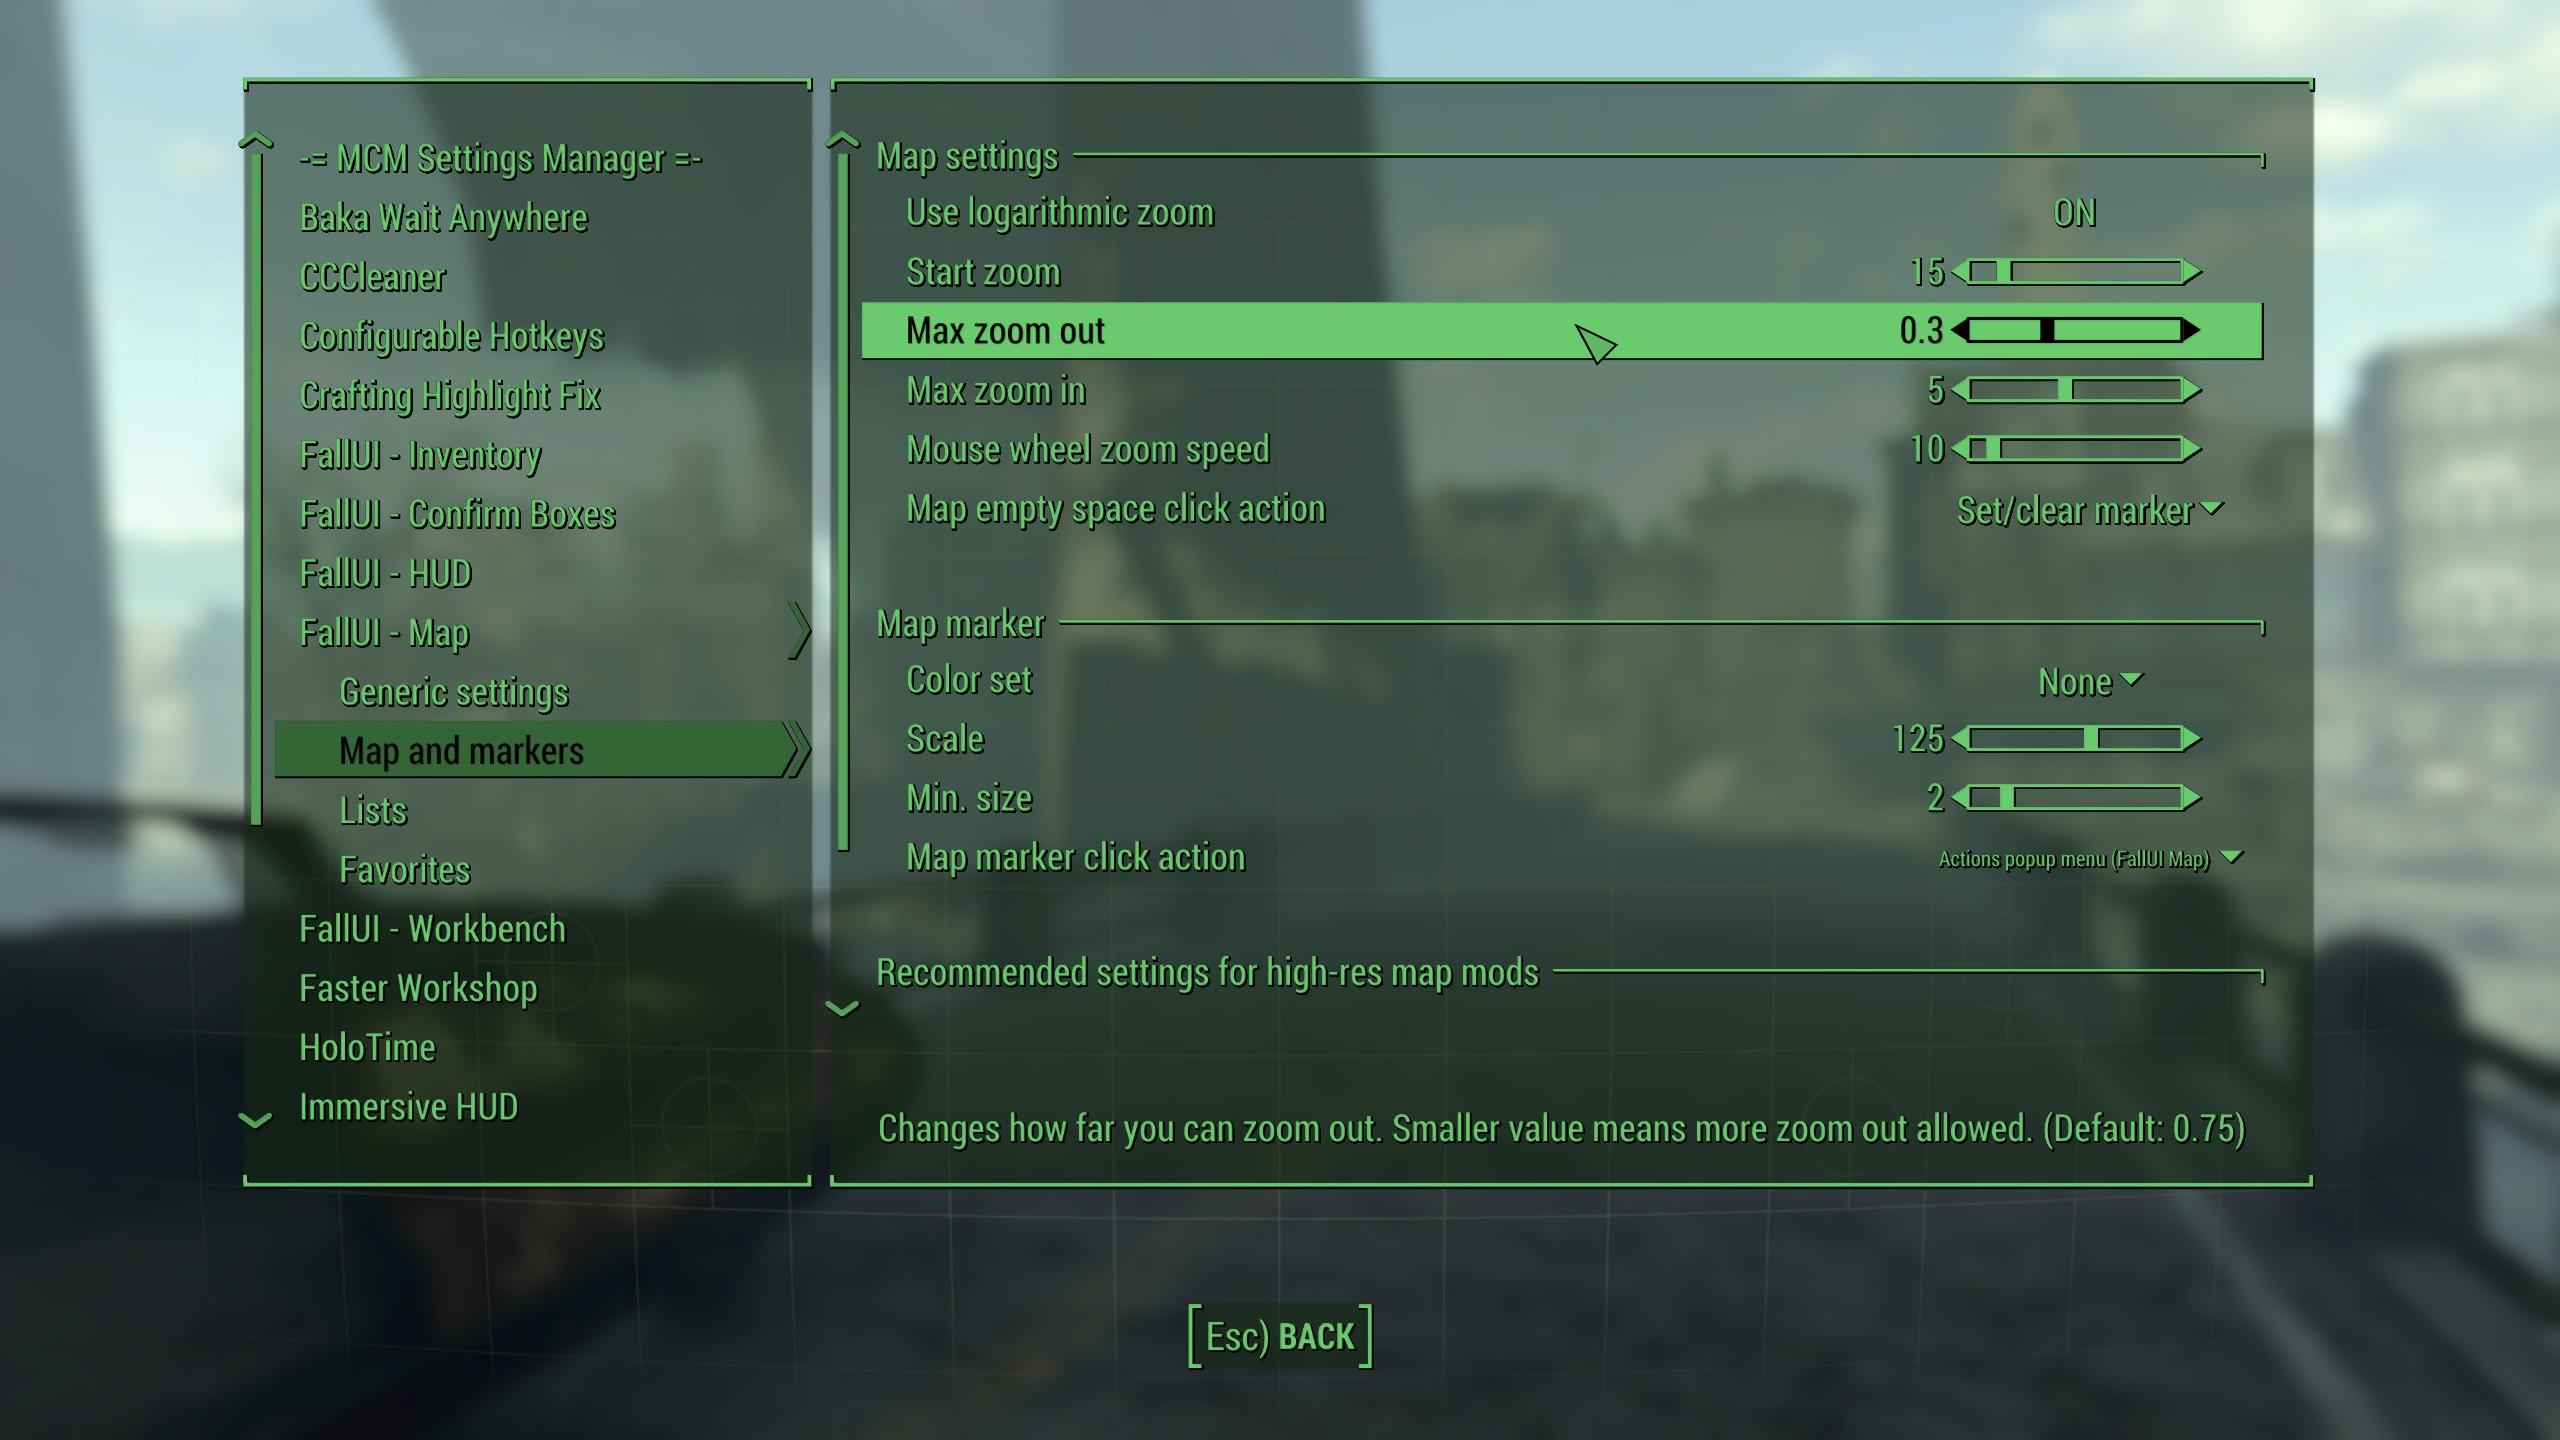
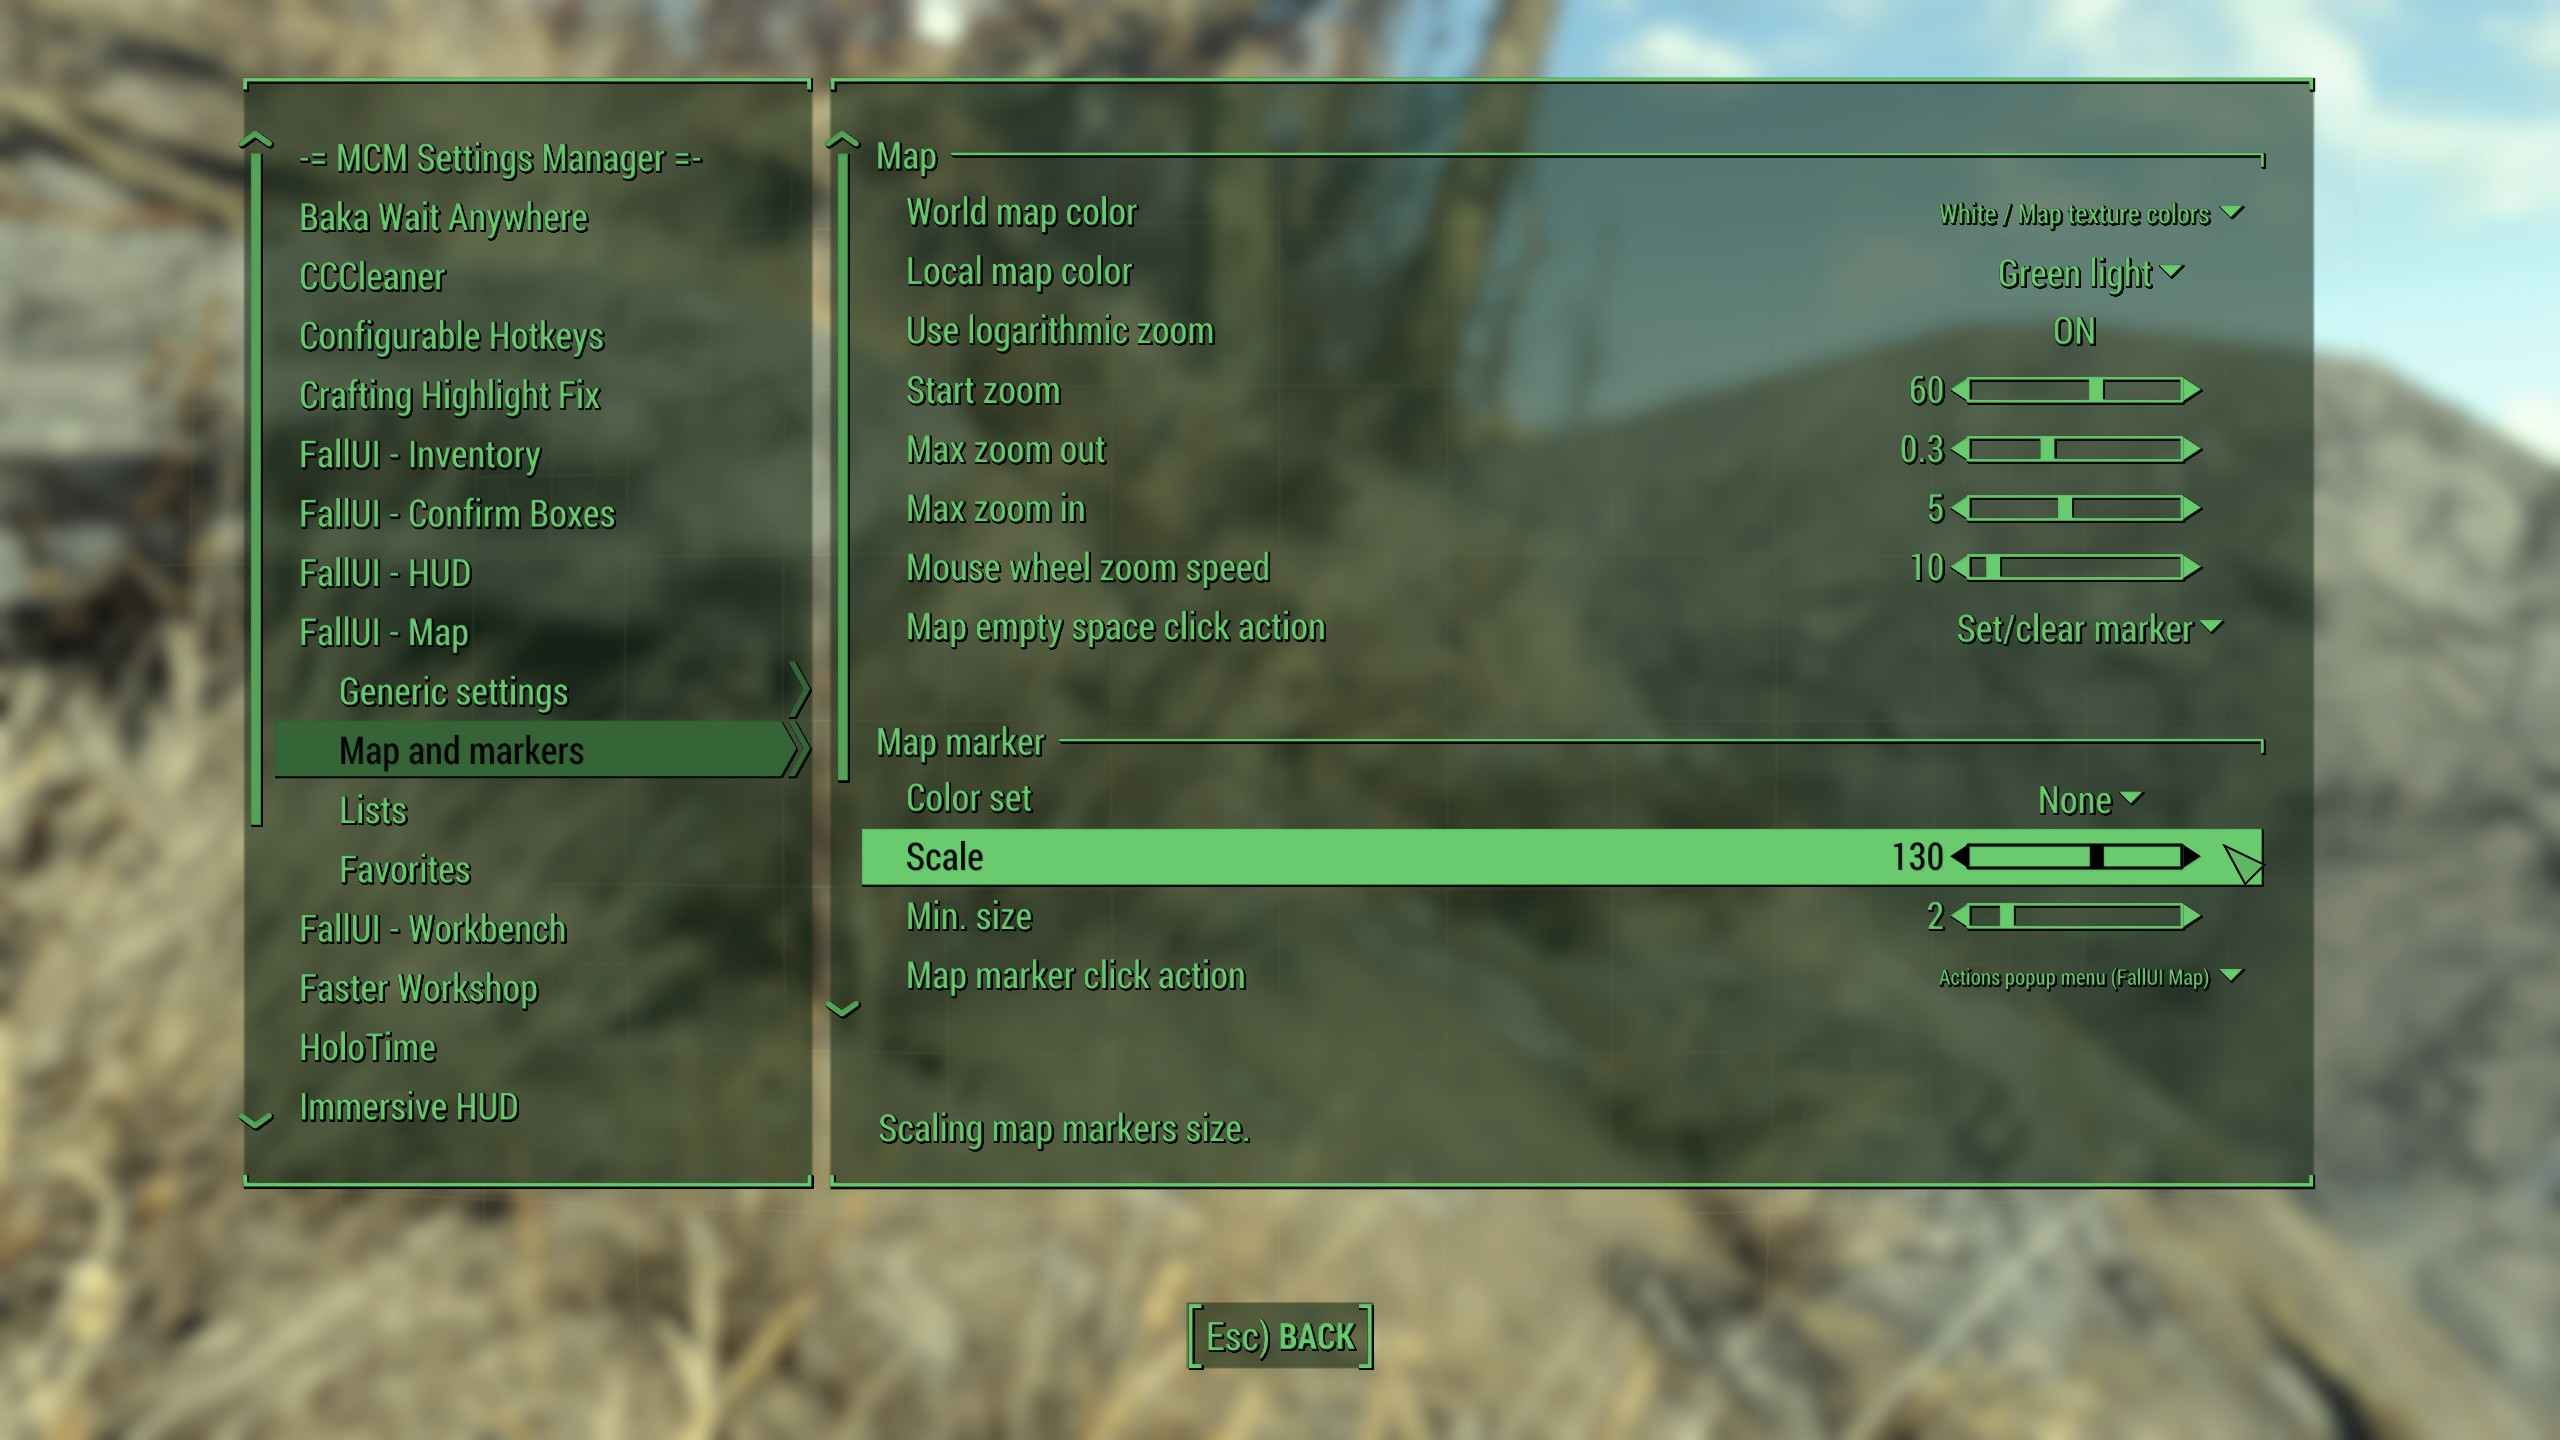
WTP Release 2.4

diff --git a/content/wtp/changelog/_index.md b/content/wtp/changelog/_index.md
@@ -10,17 +10,57 @@ description: >
 
 > TBD
 
+It was recently brought to my attention that some DLC weapons have completely broken names which turned out to have been due to a very silly oversight on my part. This update fixes that, but unfortunately it will not work retroactively. If you already went to Far Harbor and / or Nuka World, any weapons that already generated will have the incorrect names. Sorry about that.
+
+In other news, I added a few recent releases, mostly adding new snap points to meshes to make settlement building a smoother experience. Syringer ammo is now easier to craft (requiring base ingredients rather than Antifreeze Bottles etc) and will be sorted in their own roll-up (sub) menu in the Aid tab. You can quit accidentally poisoning yourself now.
+
+If you don't want to start a new game for this, you need to manually restart the quest for Diamond City Radio Extended ingame. Open the console and run the following two commands:
+
+```
+stopquest radiodiamondcity 
+startquest radiodiamondcity
+```
+
 #### Mod Changes
 
 - Added Atom Cats Drag Race Start Fix
+- Added CC's UHD APC 4K (packed into a BA2)
 - Added Companion Thoughts Overhaul
+- Added Syringer Ammo Simpler Ingredients
 - Added Proctor Teagan Sells BOS Clothing
+- Added Garden Plot Snap
+- Added Useful Posts
+- Added Warehouse Corner Wall Snap
+- Added Warehouse to Wall Snap
+- Added Snappy Half Walls
+- Updated BethINI to 3.6.1
 - Updated Cathedral Assets Optimizer to 5.3.13
+- Updated Buffout 4 to 1.26.2
+- Updated Wetness Shader Fix to 3.6
+- Updated Workshop Framework to 2.2.1a
+- Updated MCM Settings Manager to 1.1
+- Updated Phoenix - Sorting Overhaul (see below)
+- Updated FallUI - Interface to 2.1.1
+- Updated FallUI - HUD to 1.6b
+- Updated FallUI - Confirm Boxes to 2.2.1
+- Updated FallUI - Workbench to 1.4
+- Updated Diamond City Radio Extended to 3.0.0
+- Updated LOST Audio Tweaks - DCRE RAO Patch to 3.0.0
+- Updated WTP MCM Presets (both regular and 21:9 versions)
+- Regenerated both sets of INI files with the new version of BethINI
+- Removed tbbmalloc.dll from Game Folder Files
+
+> The tbbmalloc.dll is no longer required for Buffout. You can delete it from your root folder.
 
 #### Sorting Overhaul
 
 - Added some Nuka World melee weapon paint job options missing in the main INNR record
+- Fixed broken names on Far Harbor / Nuka World weapons
 - Fixed some insanely difficult to see errors in the scrap tags for three different Lit Cigar records
+
+#### Website Changes
+
+- [MCM Settings](/wtp/documentation/mcm-settings/): Updated for the new changes (specifically in the FallUI mod MCMs)
 
 ## Release 2.3.3
 

diff --git a/content/wtp/documentation/mcm-settings.md b/content/wtp/documentation/mcm-settings.md
@@ -28,9 +28,14 @@ description: >
 
 ## FallUI Inventory
 
-- Coloring was set to **Green light** for all menus
+- Dual colors was set to **OK** (with white as the primary color)
+- Secondary color was set to **Green light** for all menus
 
-![FallUI Inventory MCM](/Pictures/wtp/documentation/fallui-inventory-mcm.jpg)
+![FallUI Inventory MCM 1](/Pictures/wtp/documentation/fallui-inventory-mcm-1.jpg)
+
+- Go back by Pipboy/cancel key (for submenus) was set to **ON**
+
+![FallUI Inventory MCM 2](/Pictures/wtp/documentation/fallui-inventory-mcm-2.jpg)
 
 ## FallUI Confirm Boxes
 
@@ -48,10 +53,9 @@ description: >
 
 ## FallUI Map
 
+- Local map color **Green light**
 - Max zoom out **0.3**
-- Map marker scale **125**
-
-> These are the recommended settings for 4K map textures which WTP has.
+- Map marker scale **130**
 
 ![FallUI Map MCM](/Pictures/wtp/documentation/fallui-map-mcm.jpg)
 
